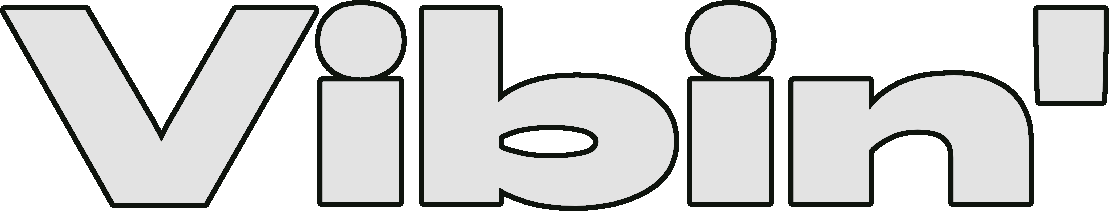
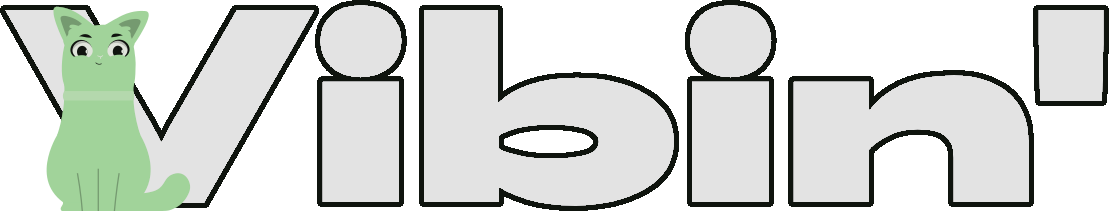
doc #58: added mascot to README

Changed region(s): [[0.0307, 0.0284, 0.1839, 1.0]]

diff --git a/README.md b/README.md
@@ -90,7 +90,7 @@ This project is licensed under the **[GNU General Public License v3.0](LICENSE)*
 
 ```
 Vibin - Self-hosted music streaming server
-Copyright (C) 2025
+Copyright (C) 2025 mickkc
 
 This program is free software: you can redistribute it and/or modify
 it under the terms of the GNU General Public License as published by
@@ -98,3 +98,5 @@ the Free Software Foundation, either version 3 of the License, or
 (at your option) any later version.
 ```
 
+**Mascot:** The project mascot was commissioned from a freelance artist. All rights have been exclusively assigned to
+the project maintainer and are licensed under the same GPLv3 terms.
